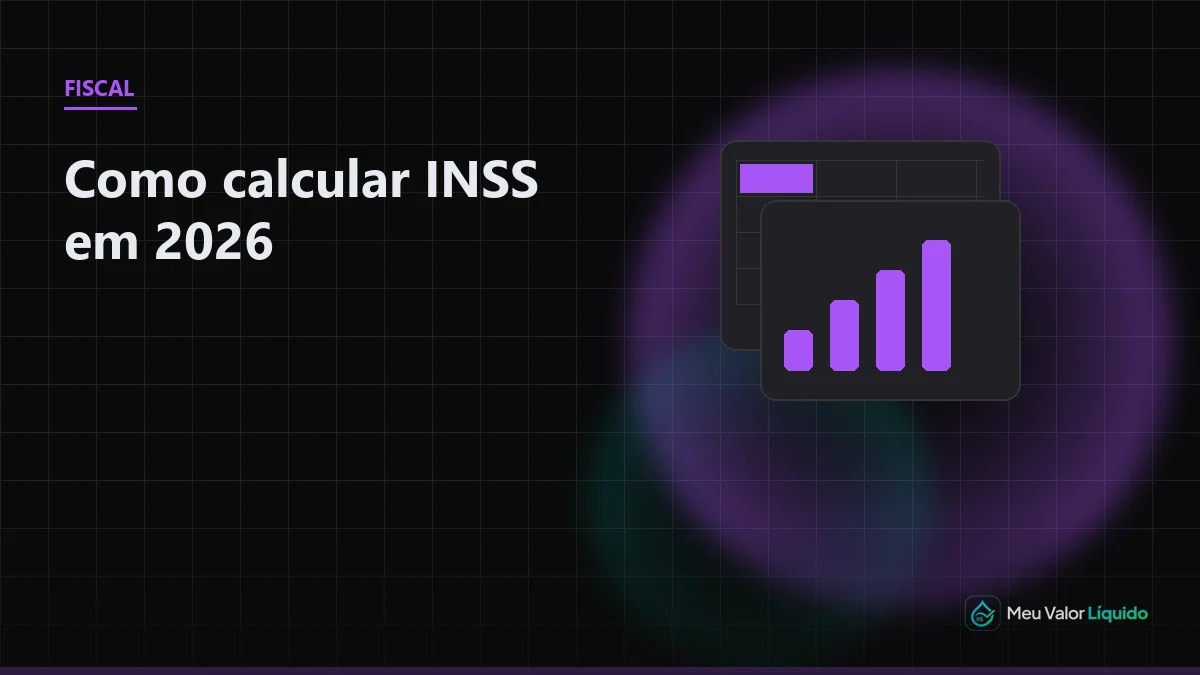
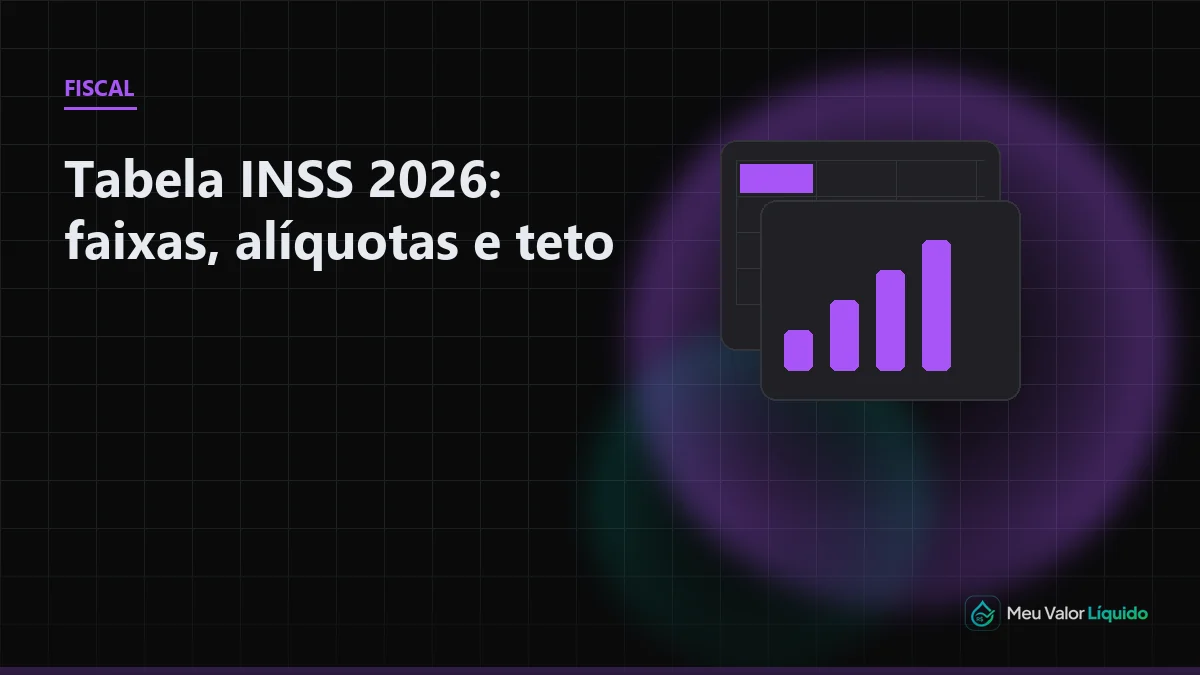
feat(blog): adiciona 4 artigos editoriais da Sprint 66 e atualiza hubs
Calendário editorial com artigos sobre IRRF, seguro-desemprego, multa FGTS e aumento salarial; hubs desligamento/negociar-salario e imagens hero.

Changed region(s): [[0.0308, 0.2178, 0.5242, 0.4044]]

diff --git a/src/WebApp/Data/BlogArticleSeedData.cs b/src/WebApp/Data/BlogArticleSeedData.cs
@@ -324,7 +324,7 @@ public static class BlogArticleSeedData
             <h2>Teto previdenciário</h2>
             <p>Salários acima do teto contribuem somente até o limite máximo. Benefícios futuros também respeitam esse teto na maioria dos casos.</p>
             <h2>Calcule automaticamente</h2>
-            <p>Evite erros manuais usando a <a href="/calculadoras/inss">calculadora de INSS</a>, já configurada com as faixas de 2026.</p>
+            <p>Evite erros manuais usando a <a href="/calculadoras/inss">calculadora de INSS</a>, já configurada com as faixas de 2026. Para ver o INSS no contexto do holerite completo, veja o guia <a href="/negociar-salario">negociar salário pelo líquido</a>.</p>
             """),
         Article(
             "tabela-irrf-2026-guia",
@@ -557,6 +557,85 @@ public static class BlogArticleSeedData
             <p>Sócio que retira pró-labore paga INSS sobre o valor. Lucro distribuído segue regras próprias — converse com contador antes de misturar PF e PJ.</p>
             <h2>MEI → Simples</h2>
             <p>Desenquadramento do MEI exige migração planejada. Simule faturamento e impostos no <a href="/calculadoras/simulador-mei">simulador MEI</a> e compare cenários na <a href="/calculadoras/pj-vs-clt">calculadora PJ vs CLT</a>. Leia também <a href="/blog/mei-faturamento-e-das">limite de faturamento MEI</a>.</p>
+            """),
+        Article(
+            "irrf-2026-reducao-imposto",
+            "IRRF 2026: redução de imposto e quem está isento",
+            "Entenda a Lei 15.270/2025, a isenção para bases menores e como conferir o desconto no holerite.",
+            "irrf",
+            "Fiscal",
+            new DateOnly(2026, 6, 19),
+            """
+            <p>Em 2026, a <strong>Lei 15.270/2025</strong> alterou a forma como o IRRF é calculado para rendimentos do trabalho assalariado. Muitos salários que antes tinham retenção passaram a ficar isentos ou com imposto reduzido — o que explica holerites com IRRF zerado mesmo acima do salário mínimo.</p>
+            <h2>Quem pode ficar isento em 2026</h2>
+            <p>A regra vigente reduz ou zera o imposto quando a <strong>base de cálculo</strong> (após INSS e deduções) está em faixas menores. Não confunda salário bruto com base tributável: dependentes, pensão e o próprio INSS mudam o número.</p>
+            <h2>Como conferir no holerite</h2>
+            <ol>
+            <li>Identifique a rubrica de IRRF e a base informada.</li>
+            <li>Compare com a <a href="/calculadoras/irrf">calculadora de IRRF</a> usando o mesmo bruto e dependentes.</li>
+            <li>Monte o extrato completo na <a href="/calculadoras/salario-liquido">calculadora de salário líquido</a>.</li>
+            </ol>
+            <h2>Negociação salarial</h2>
+            <p>Aumentos pequenos no bruto podem não mudar o líquido na mesma proporção por causa do imposto progressivo. Use o guia <a href="/negociar-salario">negociar salário pelo líquido</a> antes de aceitar proposta.</p>
+            <p>Complemente com <a href="/blog/tabela-irrf-2026-guia">tabela IRRF 2026</a> e a <a href="/duvidas/irrf-quem-paga-e-como-calcular">FAQ de IRRF</a>.</p>
+            """),
+        Article(
+            "seguro-desemprego-quem-tem-direito",
+            "Seguro-desemprego: quem tem direito e como estimar",
+            "Requisitos após demissão sem justa causa, parcelas e o que a rescisão não substitui.",
+            "rescisao-clt",
+            "Trabalhista",
+            new DateOnly(2026, 6, 20),
+            """
+            <p>O <strong>seguro-desemprego</strong> é benefício do trabalhador CLT dispensado sem justa causa (e em alguns casos de extinção do contrato). Ele <strong>não entra no TRCT</strong> como verba rescisória — é solicitado depois, com requisitos próprios de tempo de serviço e número de solicitações anteriores.</p>
+            <h2>Quem costuma ter direito</h2>
+            <ul>
+            <li>Demissão sem justa causa pelo empregador.</li>
+            <li>Extinção normal do contrato por prazo determinado (em regras específicas).</li>
+            <li>Alguns casos de rescisão indireta homologada — confirme com sindicato ou advogado.</li>
+            </ul>
+            <p><strong>Não têm direito</strong> em regra: pedido de demissão, justa causa e aposentadoria.</p>
+            <h2>Quantas parcelas</h2>
+            <p>O número de parcelas depende do tempo de trabalho na última empresa e de quantas vezes você já solicitou o benefício na vida. O valor de cada parcela segue tabela do Ministério do Trabalho — não é igual ao último salário líquido.</p>
+            <h2>Relação com a rescisão</h2>
+            <p>Simule verbas rescisórias na <a href="/calculadoras/rescisao-clt">calculadora de rescisão CLT</a> e FGTS na <a href="/calculadoras/fgts">calculadora de FGTS</a>. O seguro-desemprego aparece como orientação informativa na rescisão — o valor exato só o governo calcula na solicitação.</p>
+            <p>Siga o guia completo em <a href="/desligamento">desligamento CLT</a> e leia <a href="/duvidas/seguro-desemprego-quando-tem-direito">quando solicitar seguro-desemprego</a>.</p>
+            """),
+        Article(
+            "multa-fgts-40-ou-20",
+            "Multa FGTS 40% ou 20%: quando cada uma se aplica",
+            "Entenda demissão sem justa causa, acordo 484-A e pedido de demissão no contexto da multa rescisória.",
+            "fgts",
+            "Trabalhista",
+            new DateOnly(2026, 6, 21),
+            """
+            <p>A <strong>multa rescisória do FGTS</strong> é paga pelo empregador sobre o saldo da conta vinculada em situações específicas de desligamento. O percentual mais conhecido é <strong>40%</strong>, mas o <strong>acordo entre empregado e empresa (art. 484-A da CLT)</strong> usa <strong>20%</strong> sobre o saldo, com regras de saque diferentes.</p>
+            <h2>Multa de 40%</h2>
+            <p>Aplica-se na <strong>demissão sem justa causa</strong> pelo empregador. O valor é creditado na conta FGTS junto com a possibilidade de saque (conforme modalidade). A multa não é descontada do seu salário — é obrigação da empresa.</p>
+            <h2>Multa de 20% (acordo)</h2>
+            <p>No acordo para encerrar o contrato, as partes combinam verbas e a multa sobre FGTS cai para 20%. O trabalhador pode sacar parte do saldo, mas abre mão de parte da multa cheia.</p>
+            <h2>Sem multa para a empresa</h2>
+            <p>Pedido de demissão e demissão por justa causa, em regra, <strong>não geram multa de 40%</strong> para o empregador. O saldo FGTS pode ficar bloqueado para saque até outra hipótese legal.</p>
+            <h2>Estime saldo e multa</h2>
+            <p>Use a <a href="/calculadoras/fgts">calculadora de FGTS</a> com tipo de desligamento e a <a href="/calculadoras/rescisao-clt">calculadora de rescisão CLT</a> para o pacote completo. Veja também <a href="/blog/fgts-guia-completo">FGTS: guia completo</a> e o hub <a href="/desligamento">desligamento CLT</a>.</p>
+            <p>Consulte a <a href="/duvidas/multa-fgts-40-porcento">FAQ multa FGTS 40%</a>.</p>
+            """),
+        Article(
+            "aumento-salario-quanto-sobra-liquido",
+            "Aumento de salário: quanto sobra no líquido de verdade",
+            "Por que 10% no bruto pode virar menos no bolso — e como simular antes de aceitar a proposta.",
+            "proposta-salarial",
+            "Trabalhista",
+            new DateOnly(2026, 6, 22),
+            """
+            <p>Comunicar um aumento de <strong>10% no bruto</strong> parece simples, mas INSS e IRRF são progressivos: parte do ganho vira contribuição e imposto. O percentual real no bolso costuma ser <strong>menor</strong> que o anunciado no contracheque futuro.</p>
+            <h2>Exemplo ilustrativo</h2>
+            <p>De R$ 4.000 para R$ 4.400 de bruto (+10%), o líquido pode subir algo como 7% a 9% — dependendo de dependentes, faixa de IRRF e descontos fixos (VT, plano, pensão). Só a simulação com seus números responde com precisão.</p>
+            <h2>Compare com os mesmos descontos</h2>
+            <p>Para negociação justa, mantenha vale-transporte, VR/VA, plano e pensão iguais nos dois cenários. A <a href="/calculadoras/proposta-salarial">calculadora de proposta salarial</a> mostra ganho mensal, anual e percentuais no bruto e no líquido.</p>
+            <h2>Meta de bolso</h2>
+            <p>Se você precisa de um líquido mínimo (aluguel, financiamento), use também a <a href="/calculadoras/salario-bruto-necessario">calculadora de salário bruto necessário</a> — ela responde quanto de bruto pedir para chegar no valor desejado.</p>
+            <p>Explore o guia <a href="/negociar-salario">negociar salário pelo líquido</a>, <a href="/blog/como-avaliar-proposta-salarial">como avaliar proposta</a> e a <a href="/duvidas/proposta-salarial-como-negociar">FAQ de negociação</a>.</p>
             """)
     ];
 
@@ -660,6 +739,14 @@ public static class BlogArticleSeedData
                 "<h2 id=\"dica-pratica\">Dica prática</h2><p>Emita a NFS-e no mesmo mês do serviço prestado; atrasar pode complicar o DAS e a comprovação perante o cliente PJ.</p>",
             "simples-nacional-pj-guia-iniciantes" =>
                 "<h2 id=\"dica-pratica\">Dica prática</h2><p>Peça ao contador a simulação da alíquota efetiva nos anexos III e V antes de fechar o primeiro contrato como ME no Simples.</p>",
+            "irrf-2026-reducao-imposto" =>
+                "<h2 id=\"dica-pratica\">Dica prática</h2><p>Depois de um reajuste salarial, rode de novo a calculadora de IRRF — a isenção de 2026 pode fazer o imposto cair mais do que em anos anteriores.</p>",
+            "seguro-desemprego-quem-tem-direito" =>
+                "<h2 id=\"dica-pratica\">Dica prática</h2><p>Separe a solicitação do seguro-desemprego da homologação da rescisão; prazos e documentos são diferentes e perder a data pode custar parcelas.</p>",
+            "multa-fgts-40-ou-20" =>
+                "<h2 id=\"dica-pratica\">Dica prática</h2><p>Antes de aceitar acordo 484-A, compare o líquido da rescisão com multa de 20% contra o cenário de demissão sem justa causa com 40% — nem sempre o acordo compensa.</p>",
+            "aumento-salario-quanto-sobra-liquido" =>
+                "<h2 id=\"dica-pratica\">Dica prática</h2><p>Peça ao RH o valor líquido estimado ou use nossa calculadora e compartilhe o PDF na conversa — negociar só pelo bruto esconde metade da história.</p>",
             _ => string.Empty
         };
 

diff --git a/tests/MeuValorLiquido.WebApp.Tests/Sprint66BlogTests.cs b/tests/MeuValorLiquido.WebApp.Tests/Sprint66BlogTests.cs
@@ -1,0 +1,81 @@
+namespace MeuValorLiquido.WebApp.Tests;
+
+public sealed class Sprint66BlogTests : IClassFixture<WebApplicationFactory<Program>>
+{
+    private readonly HttpClient client;
+
+    public Sprint66BlogTests(WebApplicationFactory<Program> factory) =>
+        client = factory.WithWebHostBuilder(builder => builder.UseEnvironment("Testing")).CreateClient();
+
+    public static IEnumerable<object[]> Sprint66EditorialSlugs =>
+        BlogEditorialCatalog.Sprint66EditorialSlugs.Select(slug => new object[] { slug });
+
+    [Theory]
+    [MemberData(nameof(Sprint66EditorialSlugs))]
+    public async Task Sprint66_Article_Should_Link_Calculator_Methodology_And_Faq(string slug)
+    {
+        var html = await client.GetStringAsync($"/blog/{slug}");
+
+        html.Should().Contain("/como-calculamos");
+        html.Should().Contain("id=\"como-validamos\"");
+        html.Should().Contain("/calculadoras/");
+        html.Should().Contain("/duvidas/");
+        html.Should().Contain("Article");
+    }
+
+    [Fact]
+    public async Task Sprint66_Should_Add_Four_New_Editorial_Articles()
+    {
+        BlogEditorialCatalog.Sprint66EditorialSlugs.Should().HaveCount(4);
+
+        foreach (var slug in BlogEditorialCatalog.Sprint66EditorialSlugs)
+        {
+            BlogArticleSeedData.GetAll().Any(a => a.Slug == slug).Should().BeTrue();
+            var response = await client.GetAsync($"/blog/{slug}");
+            response.IsSuccessStatusCode.Should().BeTrue();
+        }
+    }
+
+    [Fact]
+    public async Task Sitemap_Should_Include_Sprint66_Articles()
+    {
+        var xml = await client.GetStringAsync("/sitemap.xml");
+
+        xml.Should().Contain("/blog/irrf-2026-reducao-imposto");
+        xml.Should().Contain("/blog/seguro-desemprego-quem-tem-direito");
+        xml.Should().Contain("/blog/multa-fgts-40-ou-20");
+        xml.Should().Contain("/blog/aumento-salario-quanto-sobra-liquido");
+    }
+
+    [Theory]
+    [InlineData("/desligamento", "seguro-desemprego-quem-tem-direito", "multa-fgts-40-ou-20")]
+    [InlineData("/negociar-salario", "aumento-salario-quanto-sobra-liquido", "irrf-2026-reducao-imposto")]
+    public async Task Thematic_Hub_Should_List_Sprint66_Articles(
+        string hubPath,
+        string articleSlugA,
+        string articleSlugB)
+    {
+        var html = await client.GetStringAsync(hubPath);
+
+        html.Should().Contain($"/blog/{articleSlugA}");
+        html.Should().Contain($"/blog/{articleSlugB}");
+    }
+
+    [Fact]
+    public async Task Seguro_Desemprego_Article_Should_Link_Desligamento_Hub()
+    {
+        var html = await client.GetStringAsync("/blog/seguro-desemprego-quem-tem-direito");
+
+        html.Should().Contain("/desligamento");
+        html.Should().Contain("/calculadoras/rescisao-clt");
+    }
+
+    [Fact]
+    public async Task Aumento_Salario_Article_Should_Link_Negociar_Hub()
+    {
+        var html = await client.GetStringAsync("/blog/aumento-salario-quanto-sobra-liquido");
+
+        html.Should().Contain("/negociar-salario");
+        html.Should().Contain("/calculadoras/proposta-salarial");
+    }
+}

diff --git a/src/WebApp/Infrastructure/ThematicHubCatalog.cs b/src/WebApp/Infrastructure/ThematicHubCatalog.cs
@@ -49,7 +49,7 @@ public static class ThematicHubCatalog
             ],
             "rescisao-clt",
             ["rescisao-clt", "fgts", "decimo-terceiro", "ferias", "salario-liquido"],
-            ["como-calcular-rescisao-clt", "rescisao-clt-vs-trct", "fgts-guia-completo"],
+            ["como-calcular-rescisao-clt", "rescisao-clt-vs-trct", "fgts-guia-completo", "seguro-desemprego-quem-tem-direito", "multa-fgts-40-ou-20"],
             ["rescisao-pedido-demissao-o-que-recebo", "multa-fgts-40-porcento", "seguro-desemprego-quando-tem-direito"]),
 
         new(
@@ -74,7 +74,7 @@ public static class ThematicHubCatalog
             ],
             "proposta-salarial",
             ["proposta-salarial", "salario-liquido", "salario-bruto-necessario", "inss", "irrf"],
-            ["como-avaliar-proposta-salarial", "o-que-e-salario-liquido", "como-conferir-holerite"],
+            ["como-avaliar-proposta-salarial", "o-que-e-salario-liquido", "como-conferir-holerite", "aumento-salario-quanto-sobra-liquido", "irrf-2026-reducao-imposto"],
             ["proposta-salarial-como-negociar", "diferenca-salario-bruto-e-liquido", "quanto-preciso-ganhar-para-receber-x-liquido"]),
 
         new(

diff --git a/src/WebApp/Infrastructure/BlogEditorialCatalog.cs b/src/WebApp/Infrastructure/BlogEditorialCatalog.cs
@@ -1,6 +1,6 @@
 namespace MeuValorLiquido.WebApp.Infrastructure;
 
-/// <summary>Artigos editoriais da Sprint 58 com seção de validação e links obrigatórios.</summary>
+/// <summary>Artigos editoriais com seção de validação e links obrigatórios.</summary>
 public static class BlogEditorialCatalog
 {
     public static readonly IReadOnlyList<string> Sprint58EditorialSlugs =
@@ -10,6 +10,15 @@ public static class BlogEditorialCatalog
         "rescisao-clt-vs-trct"
     ];
 
+    public static readonly IReadOnlyList<string> Sprint66EditorialSlugs =
+    [
+        "irrf-2026-reducao-imposto",
+        "seguro-desemprego-quem-tem-direito",
+        "multa-fgts-40-ou-20",
+        "aumento-salario-quanto-sobra-liquido"
+    ];
+
     public static bool RequiresEditorialValidation(string slug) =>
-        Sprint58EditorialSlugs.Contains(slug, StringComparer.OrdinalIgnoreCase);
+        Sprint58EditorialSlugs.Contains(slug, StringComparer.OrdinalIgnoreCase)
+        || Sprint66EditorialSlugs.Contains(slug, StringComparer.OrdinalIgnoreCase);
 }

diff --git a/docs/sprint-plan.md b/docs/sprint-plan.md
@@ -406,8 +406,8 @@
 | Sprint | Passo | Tema | Status |
 |--------|-------|------|--------|
 | **65** | 1 | Hubs temáticos (`/desligamento`, `/negociar-salario`, `/virar-pj`) | **CONCLUÍDA** |
-| **66** | 2 | Calendário editorial 6 meses + ≥4 artigos novos | **Próxima** |
-| **67** | 3 | Próxima calculadora (PO escolhe 1 na matriz do plano) | Após 65–66 ou em paralelo ao conteúdo |
+| **66** | 2 | Calendário editorial 6 meses + ≥4 artigos novos | **CONCLUÍDA** |
+| **67** | 3 | Próxima calculadora (PO escolhe 1 na matriz do plano) | **Próxima** |
 
 **Paralelo permitido:** Sprint **51** (AdSense) quando Google aprovar — não bloqueia 65–67.
 
@@ -430,18 +430,18 @@
 
 ---
 
-### Sprint 66 — Calendário editorial 6 meses (Passo 2)
+### Sprint 66 — Calendário editorial 6 meses (Passo 2) — CONCLUÍDA
 
-**Objetivo:** calendário versionado (2 artigos/mês, 6 meses) e primeiros entregáveis — Mês 1 completo + início Mês 2 (≥4 artigos).
+**Objetivo:** calendário versionado em `NICHO_REFERENCIA_PLAN.md` e primeiros 4 artigos (Mês 1 IRRF + Mês 2 desligamento + negociação).
 
 | Agent | Entregas |
 |-------|----------|
-| SEO/Content | Artigos em `BlogArticleSeedData.cs`; slugs sem duplicar existentes; cross-link hubs Sprint 65 |
-| Product Owner | Validar calendário; cortar temas fora dos 4 pilares |
-| WebApp/Frontend | Integração blog ↔ hubs; breadcrumbs |
-| QA/Test | Contagem mínima; links calculadora; sitemap |
+| SEO/Content | 4 artigos em `BlogArticleSeedData.cs`; `BlogEditorialCatalog.Sprint66EditorialSlugs` |
+| WebApp/Frontend | Hubs `/desligamento` e `/negociar-salario` atualizados com novos artigos |
+| QA/Test | `Sprint66BlogTests` (editorial, sitemap, hubs) |
+| Documentation | `CHANGELOG.md`, `AGENTS.md` |
 
-**Critérios de aceite:** calendário em `NICHO_REFERENCIA_PLAN.md`; ≥4 artigos novos; cada artigo com `RelatedCalculatorSlug`.
+**Artigos novos:** `irrf-2026-reducao-imposto`, `seguro-desemprego-quem-tem-direito`, `multa-fgts-40-ou-20`, `aumento-salario-quanto-sobra-liquido`.
 
 ---
 

diff --git a/CHANGELOG.md b/CHANGELOG.md
@@ -2,9 +2,10 @@
 
 ## Unreleased
 
-### Planejamento — Trilha referência no nicho (Sprints 65–67)
-- Novo `docs/NICHO_REFERENCIA_PLAN.md`: Passo 1 (hubs), Passo 2 (calendário editorial 6 meses), Passo 3 (matriz calculadora).
-- `docs/sprint-plan.md`, `AGENTS.md` e `docs/agents.md` atualizados.
+### Sprint 66 — Calendário editorial (4 artigos)
+- Artigos: `irrf-2026-reducao-imposto`, `seguro-desemprego-quem-tem-direito`, `multa-fgts-40-ou-20`, `aumento-salario-quanto-sobra-liquido`.
+- `BlogEditorialCatalog.Sprint66EditorialSlugs`; hubs temáticos atualizados; testes `Sprint66BlogTests`.
+- Blog passa a 30 artigos editoriais no seed.
 
 ### Sprint 65 — Hubs temáticos
 - `ThematicHubCatalog`, `ThematicHubPageBuilder`, `ThematicHubLoader` e partial `_ThematicHubPage`.

diff --git a/AGENTS.md b/AGENTS.md
@@ -13,9 +13,9 @@ Este repositório é alternado entre **Cursor** e **Codex** (máquinas diferente
 
 | Campo | Valor |
 |-------|--------|
-| **Próxima sprint** | **Sprint 66** — Calendário editorial 6 meses + ≥4 artigos |
-| **Em seguida** | Sprint 67 (próxima calculadora) |
-| **Concluída recente** | Sprint 65 (hubs temáticos) · Trilha 60–64 |
+| **Próxima sprint** | **Sprint 67** — Próxima calculadora (PO escolhe na matriz) |
+| **Em seguida** | Sprint 51 (AdSense) quando Google aprovar |
+| **Concluída recente** | Sprint 66 (4 artigos editoriais) · Sprint 65 (hubs temáticos) |
 | **Paralelo permitido** | Sprint 51 (AdSense) quando Google aprovar |
 | **Bloqueada** | Sprint 51 — aguardar aprovação Google |
 

diff --git a/docs/agents.md b/docs/agents.md
@@ -30,9 +30,8 @@ Use esta sequência para continuar o trabalho sem perder contexto:
 
 | Prioridade | Sprints | O quê |
 |------------|---------|-------|
-| **Alta — próxima** | **66** | Calendário editorial 6 meses + ≥4 artigos |
-| **Alta** | **67** | Próxima calculadora (PO escolhe 1 na matriz) |
-| Concluídas | 47–65 | Auditoria, nicho, Stitch v2, hubs temáticos |
+| **Alta — próxima** | **67** | Próxima calculadora (`seguro-desemprego` recomendado) |
+| Concluídas | 47–66 | Auditoria, nicho, Stitch v2, hubs, conteúdo Sprint 66 |
 
 **Onde começar:** ver `NICHO_REFERENCIA_PLAN.md` § *Onde os agents começam*. Ordem sugerida **65 → 66 → 67**; conteúdo (66) pode avançar em paralelo aos hubs (65).
 

diff --git a/README.md b/README.md
@@ -22,8 +22,8 @@ Para alternar o trabalho entre os dois agentes sem perder contexto:
 Estado operacional atual:
 
 - Deploy de produção usa `/var/www/meu-valor-liquido` na VPS, não `~/meu-valor-liquido`.
-- **Próxima sprint:** 66 (calendário editorial) — ver `docs/sprint-plan.md`, `AGENTS.md` e `docs/NICHO_REFERENCIA_PLAN.md`.
-- Trilhas concluídas: Stitch 39–46; pós-auditoria 47–59; fidelidade v2 (60–64); hubs temáticos (65).
+- **Próxima sprint:** 67 (calculadora de alto ROI) — ver `docs/NICHO_REFERENCIA_PLAN.md` § Passo 3.
+- Trilhas concluídas: Stitch 39–46; pós-auditoria 47–59; fidelidade v2 (60–64); hubs (65); conteúdo (66).
 ## Clonar o projeto
 
 ```powershell
